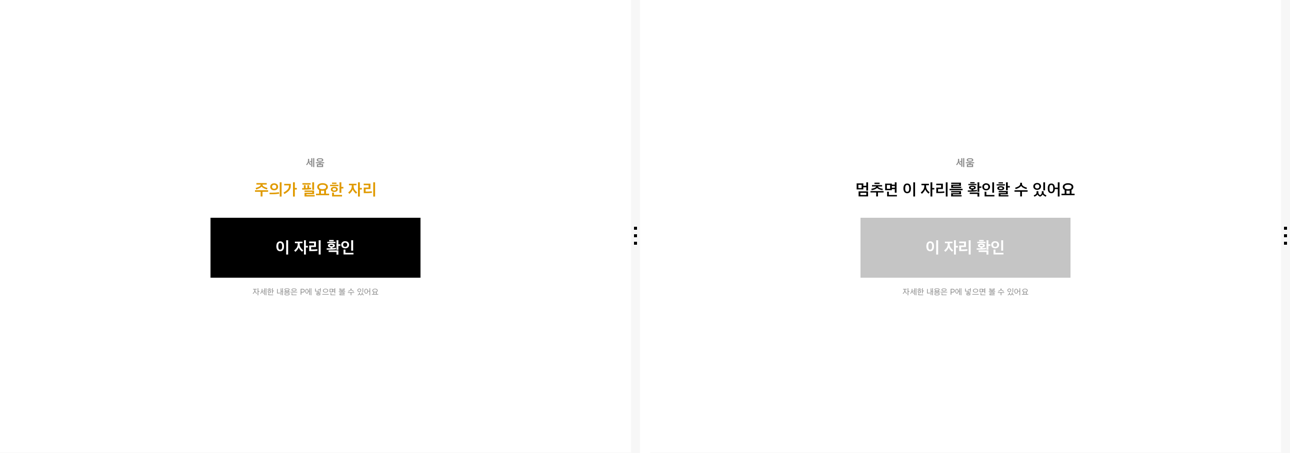
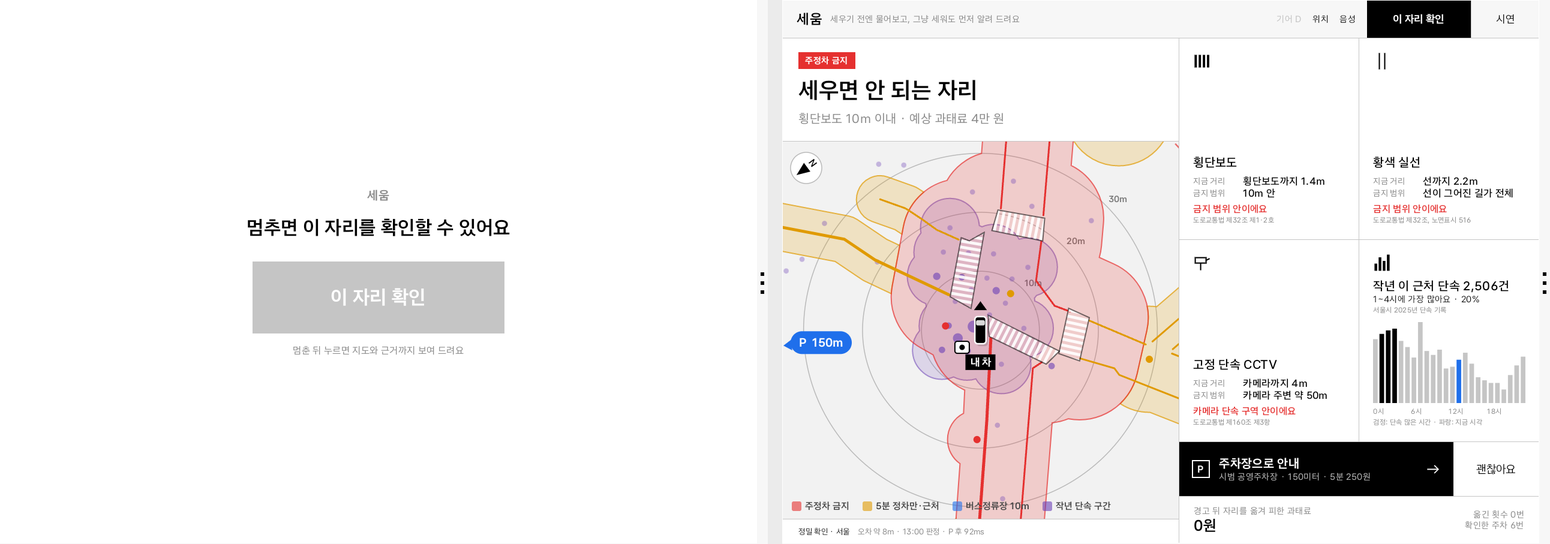
README 화면 이미지를 현재 앱 화면(작년 단속 구간 표시, 정차 시 전체 화면)으로 교체

diff --git a/README.md b/README.md
@@ -16,7 +16,7 @@ Pleos Connect(AAOS) 차량용 앱으로, 현대자동차그룹 차량용 앱 개
 | 단속 시간대 안내 | 서울시 2025년 단속 기록을 시간대별로 분석해 단속이 몰리는 시간을 알려 줍니다. |
 | 음성으로 답하는 주차장 안내 | "안내할까요?"에 "응"이라고 답하면 내비게이션에 공영주차장 경로가 잡힙니다(공영 우선, 없으면 일반 주차장). |
 
-| 운전 중 화면 (이 자리 확인) | 근거 화면 |
+| 이 자리 확인: 주행 중(왼쪽) → D단 정차 후 누름(오른쪽) | 근거 칸 (수유 시장 · 익선동) |
 |---|---|
 | ![운전 중 화면](docs/images/check_here_driving.png) | ![근거 칸](docs/images/reason_tiles.png) |
 
